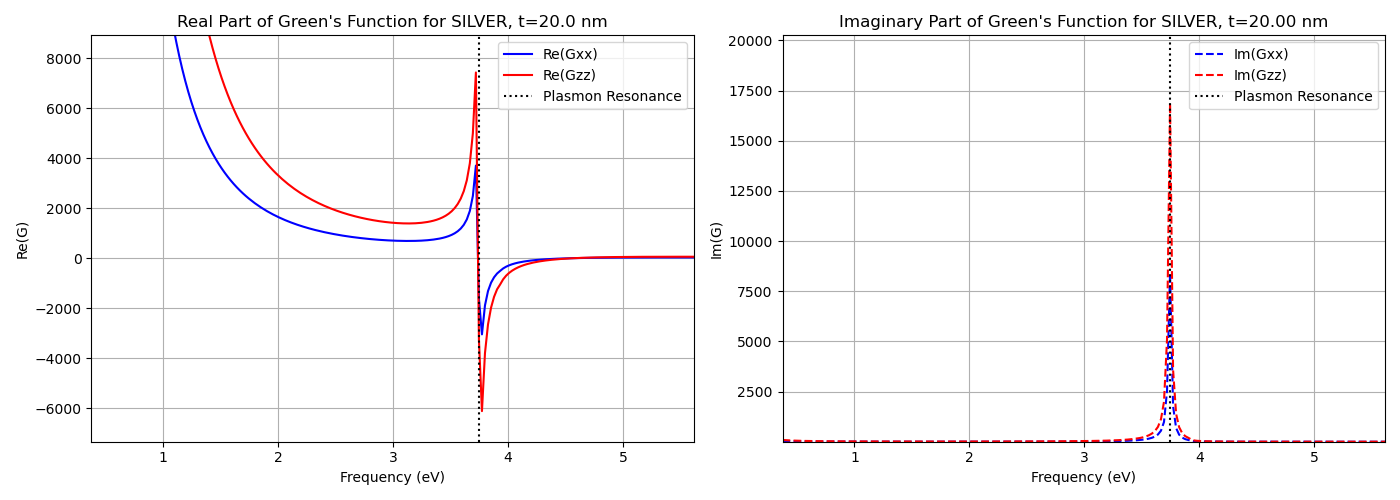
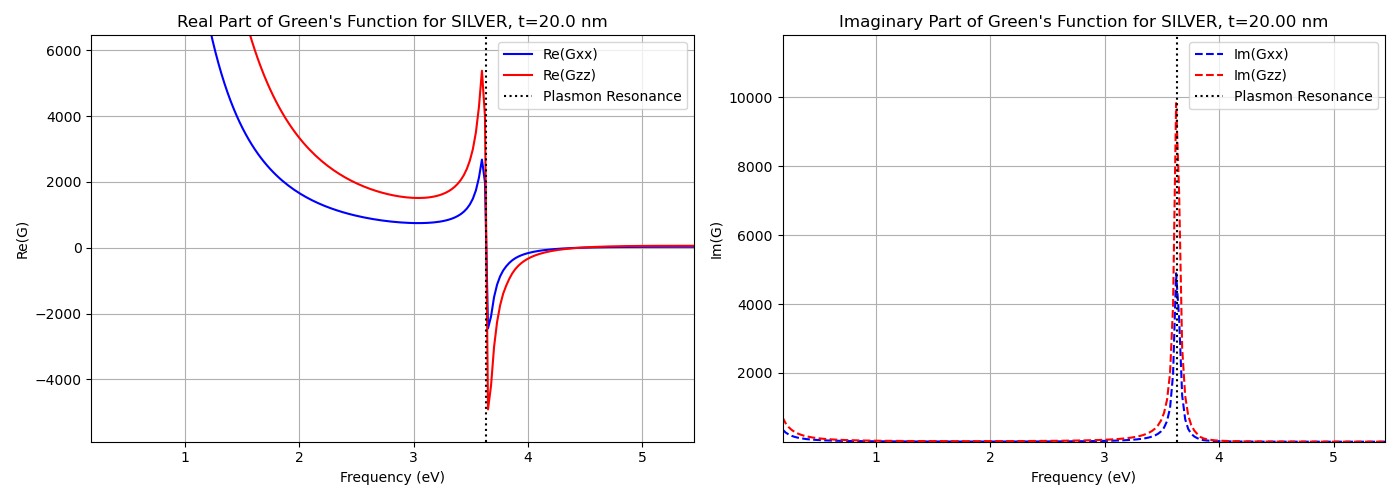
Updated plots methods for green function. Added method for cavity QED array

diff --git a/quantum_emitter/coupled-cavity-array.py b/quantum_emitter/coupled-cavity-array.py
@@ -1,0 +1,131 @@
+import numpy as np
+import matplotlib.pyplot as plt
+
+
+def build_HB(N, omega_a=1.0, J=0.2):
+    """
+    Builds the Hamiltonian matrix H_B with periodic boundary conditions.
+    """
+    H = np.zeros((N, N), dtype=complex)
+
+    # Diagonal terms
+    np.fill_diagonal(H, omega_a)
+
+    # Nearest-neighbor couplings
+    for i in range(N - 1):
+        H[i, i + 1] = -J
+        H[i + 1, i] = -J
+
+    # Periodic boundary condition
+    H[0, N - 1] = -J
+    H[N - 1, 0] = -J
+
+    return H
+
+
+def build_HB2(N, omega_a=1.0, J=0.2, J2=0.05):
+    """
+    Builds the Hamiltonian matrix H_B2 with second-order nearest-neighbor couplings.
+    """
+    H = build_HB(N, omega_a, J)
+
+    # Second-nearest-neighbor couplings
+    for i in range(N - 2):
+        H[i, i + 2] = -J2
+        H[i + 2, i] = -J2
+
+    # Periodic boundary conditions for second-nearest neighbors
+    H[0, N - 2] = -J2
+    H[N - 2, 0] = -J2
+    H[1, N - 1] = -J2
+    H[N - 1, 1] = -J2
+
+    return H
+
+
+def get_omega_k(H):
+    """
+    Computes the eigenvalues of H directly in position space.
+    """
+    eigenvalues = np.linalg.eigvalsh(H)  # Only eigenvalues are needed
+    return np.sort(eigenvalues)  # Ensure proper ordering
+
+
+def get_omega_k_theoretical(N, omega_a=1.0, J=0.2, J2=0.05):
+    """
+    Computes the theoretical dispersion relation ω(k) and finds the index mapping.
+    """
+    k_vals = 2 * np.pi * (np.arange(N)-N/2) / N  # Momentum space values
+
+    # Theoretical dispersion relations
+    omega_k1 = omega_a - 2 * J * np.cos(k_vals)
+    omega_k2 = omega_a - 2 * J * np.cos(k_vals) - 2 * J2 * np.cos(2 * k_vals)
+
+    # Sorted version for ordering reference
+    omega_k1_sorted = np.sort(omega_k1)
+
+    # Generate mapping of indices from sorted to original
+    good_ordering = []
+    used_indices = set()
+
+    for val in omega_k1:
+        index = np.where(omega_k1_sorted == val)[0]  # Get all matching indices
+        for idx in index:
+            if idx not in used_indices:
+                good_ordering.append(idx)
+                used_indices.add(idx)
+                break  # Ensure each value is used only once
+
+    return k_vals, omega_k1, omega_k2, good_ordering
+
+
+def sort_array_given_order(good_ordering, array):
+    """
+    Reorders the given array according to the order in good_ordering.
+    """
+    return np.array([array[i] for i in good_ordering])
+
+
+def plot_all_dispersion(N, omega_a=1.0, J=0.2, J2=0.05):
+    """
+    Plots numerical and theoretical dispersions for both first-order (H_B) and second-order (H_B2) Hamiltonians.
+    """
+    # Build Hamiltonians and compute eigenvalues
+    H_B = build_HB(N, omega_a, J)
+    H_B2 = build_HB2(N, omega_a, J, J2)
+
+    # Compute theoretical dispersion relations
+    k_vals, omega_k_theoretical_B, omega_k_theoretical_B2, good_ordering = get_omega_k_theoretical(N, omega_a, J, J2)
+
+    # k-ordered numerical results
+    omega_k_numerical_B = sort_array_given_order(good_ordering, get_omega_k(H_B))
+    omega_k_numerical_B2 = sort_array_given_order(good_ordering, get_omega_k(H_B2))
+
+
+    # Plot everything
+    plt.figure(figsize=(8, 5))
+    plt.plot(k_vals, omega_k_theoretical_B, 'r--', label=r'Theoretical $\omega(k)$ (1st order)')
+    plt.scatter(k_vals, omega_k_numerical_B, color='b', label=r'Numerical $\omega(k)$ (1st order)', zorder=3)
+
+    plt.plot(k_vals, omega_k_theoretical_B2, 'g--', label=r'Theoretical $\omega(k)$ (2nd order)')
+    plt.scatter(k_vals, omega_k_numerical_B2, color='m', label=r'Numerical $\omega(k)$ (2nd order)', zorder=3)
+
+    plt.xlabel(r'Wavevector $k$')
+    plt.ylabel('Eigenenergy $\omega(k)$')
+    plt.title(f'Dispersion Relation Comparison (N={N})')
+    plt.legend()
+    plt.grid()
+    plt.show()
+
+
+# Run the function
+N = 20
+J = 0.2
+J2 = 0.05
+omega_a = 1.0
+plot_all_dispersion(N, omega_a, J, J2)
+
+
+
+
+

diff --git a/classical_green_function/Comparison_frequency_some_thickness.py b/classical_green_function/Comparison_frequency_some_thickness.py
@@ -19,7 +19,7 @@ metal = Metals.SILVER
 plasmon_resonance = metal.plasmaFrequency / np.sqrt(metal.epsilonB + 1)
 
 # Thickness values to study
-thickness_values = [5, 10, 20, 30, 50, 70]  # in nm
+thickness_values = [1, 5, 10, 20, 30]  # in nm
 thickness_values = [t * Constants.NM.value for t in thickness_values]
 
 # Create directories for saving data and plots
@@ -37,7 +37,7 @@ y_min, y_max = float('inf'), float('-inf')
 
 for t, color in zip(thickness_values, colors):
     print(f"Computing: thickness {t / Constants.NM.value} nm")
-    omega_values = np.linspace(0.8 * plasmon_resonance, 5 * plasmon_resonance, 300) * Constants.EV.value
+    omega_values = np.linspace(0.1 * plasmon_resonance, 1.5 * plasmon_resonance, 300) * Constants.EV.value
 
     Gxx_values = np.zeros(len(omega_values), dtype=complex)
     Gzz_values = np.zeros(len(omega_values), dtype=complex)
@@ -88,15 +88,15 @@ fig.legend(handles=axes[0, 0].get_legend_handles_labels()[0], loc='upper center'
 # Adjust axes limits
 for ax in axes.flatten():
     ax.grid(True)
-    ax.set_xlim(0.8 * plasmon_resonance, 5 * plasmon_resonance)
+    ax.set_xlim(0.1 * plasmon_resonance, 1.5 * plasmon_resonance)
     ax.grid(True)
-    ax.set_xlim(0.8 * plasmon_resonance, 5 * plasmon_resonance)  # Adjust x-axis
+    ax.set_xlim(0.1 * plasmon_resonance, 1.5 * plasmon_resonance)  # Adjust x-axis
       # Adjust y-axis automatically
 
 plt.tight_layout(rect=tuple((0.0, 0.0, 1.0, 0.92)))
 
 # Save plot
-plt.savefig(f"./plots/{metal.name}_thickness_variation_broader.png")
+plt.savefig(f"./plots/{metal.name}_thickness_variation_first_part.png")
 
 end = time.time()
 elapsed_time = end - start

diff --git a/classical_green_function/Results_frequency_for_fixed_t.py b/classical_green_function/Results_frequency_for_fixed_t.py
@@ -16,7 +16,7 @@ limit = 100
 
 # Select a single metal and thickness
 metal = Metals.SILVER
-t = 20 * Constants.NM.value  # Fixed thickness
+t = 0.01 * Constants.NM.value  # Fixed thickness
 plasmon_resonance = metal.plasmaFrequency / np.sqrt(metal.epsilonB + 1)
 
 # Create directories for saving data and plots
@@ -24,8 +24,8 @@ os.makedirs("./data/", exist_ok=True)
 os.makedirs("./plots/", exist_ok=True)
 
 # Frequency range
-min_omega = 0.95 * plasmon_resonance
-max_omega = 1.05 * plasmon_resonance
+min_omega = 0.005 * plasmon_resonance
+max_omega = 1.5 * plasmon_resonance
 omega_values = np.linspace(min_omega, max_omega, 200) * Constants.EV.value
 
 # Arrays to store results
@@ -41,7 +41,7 @@ for i, omega in enumerate(omega_values):
     G = slab.calculateNormalizedGreenFunctionReflected(cutOff=cutOff, eps_rel=eps_rel, limit=limit)
     Gxx_values[i] = G[0, 0]  # Gxx = Gyy
     Gzz_values[i] = G[2, 2]  # Gzz
-    if omega > 0.5*plasmon_resonance*Constants.EV.value and count==0:
+    if omega > 0.05*plasmon_resonance*Constants.EV.value and count==0:
         index_good_omega = i
         count += 1
 
@@ -88,7 +88,7 @@ axes[1].set_ylim(1.2*y_min_imag,1.2*y_max_imag)
 plt.tight_layout()  # Ajusta el diseño para evitar solapamientos
 
 # Save plot
-plt.savefig(f"./plots/{metal.name}_thickness_{int(t / Constants.NM.value)}nm_real_imag_green_function_zoom.png")
+plt.savefig(f"./plots/{metal.name}_thickness_{int(t / Constants.NM.value)}nm_real_imag_green_function_whole.png")
 
 end = time.time()
 elapsed_time = end - start

diff --git a/classical_green_function/MetallicSlab.py b/classical_green_function/MetallicSlab.py
@@ -12,14 +12,12 @@ class Constants(Enum):
 
 """
 References:
-- Johnson, P. B., & Christy, R. W. (1972). Optical Constants of the Noble Metals. Physical Review B, 6(12), 4370-4379.
-- Rakic, A. D., Djurišic, A. B., Elazar, J. M., & Majewski, M. L. (1998). Optical Properties of Metallic Films for Vertical-Cavity Optoelectronic Devices. Applied Optics, 37(22), 5271-5283.
-- Ordal, M. A., Bell, R. J., Alexander, R. W., Long, L. L., & Querry, M. R. (1985). Optical Properties of the Metals Al, Co, Cu, Au, Fe, Pb, Ni, Pd, Pt, Ag, Ti, and W in the Infrared and Far Infrared. Applied Optics, 24(24), 4493-4499.
+For SILVER: https://nano-optics.colorado.edu/wp-content/uploads/2020/06/Yang_PhysRevB_15_MainText.pdf
 """
 
 class Metals(Enum):
     GOLD = (9.03, 0.071, 9.84)
-    SILVER = (9.17, 0.021, 5.0)
+    SILVER = (8.9, 0.039, 5.0)
     COPPER = (10.83, 0.086, 10.85)
     ALUMINUM = (14.98, 0.047, 1.24)
     TUNGSTEN = (13.22, 0.064, 4.1)
